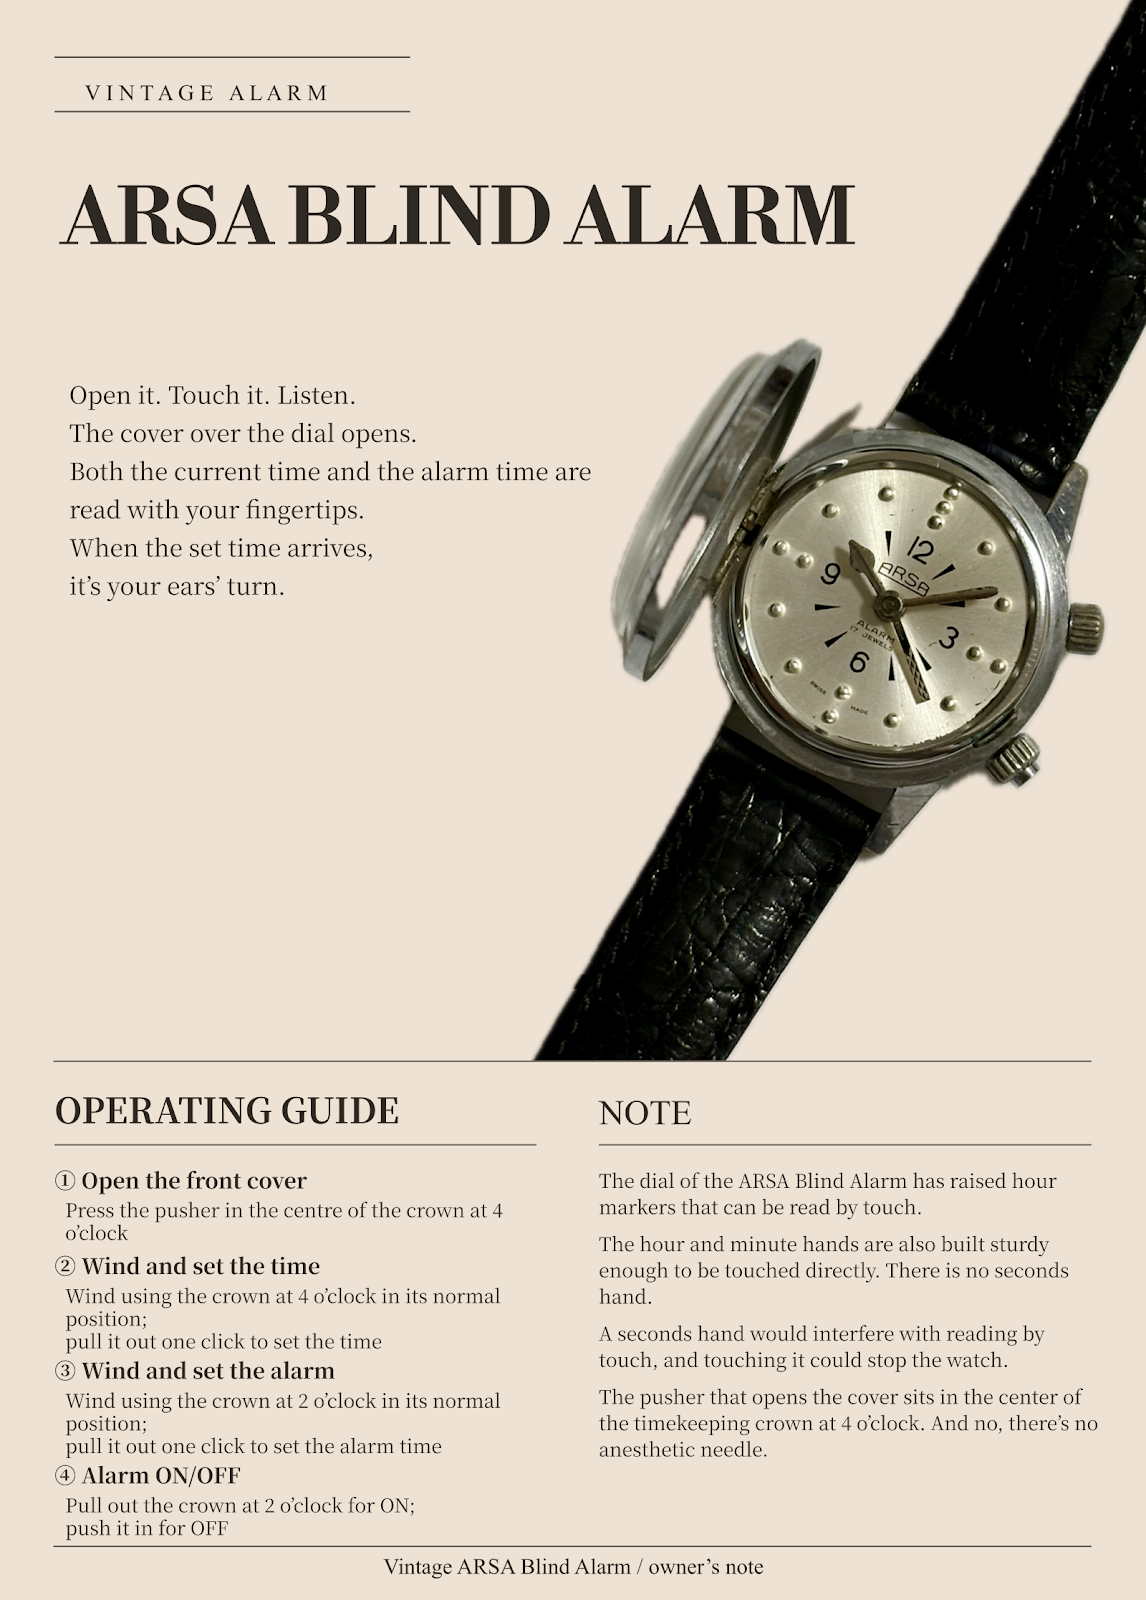
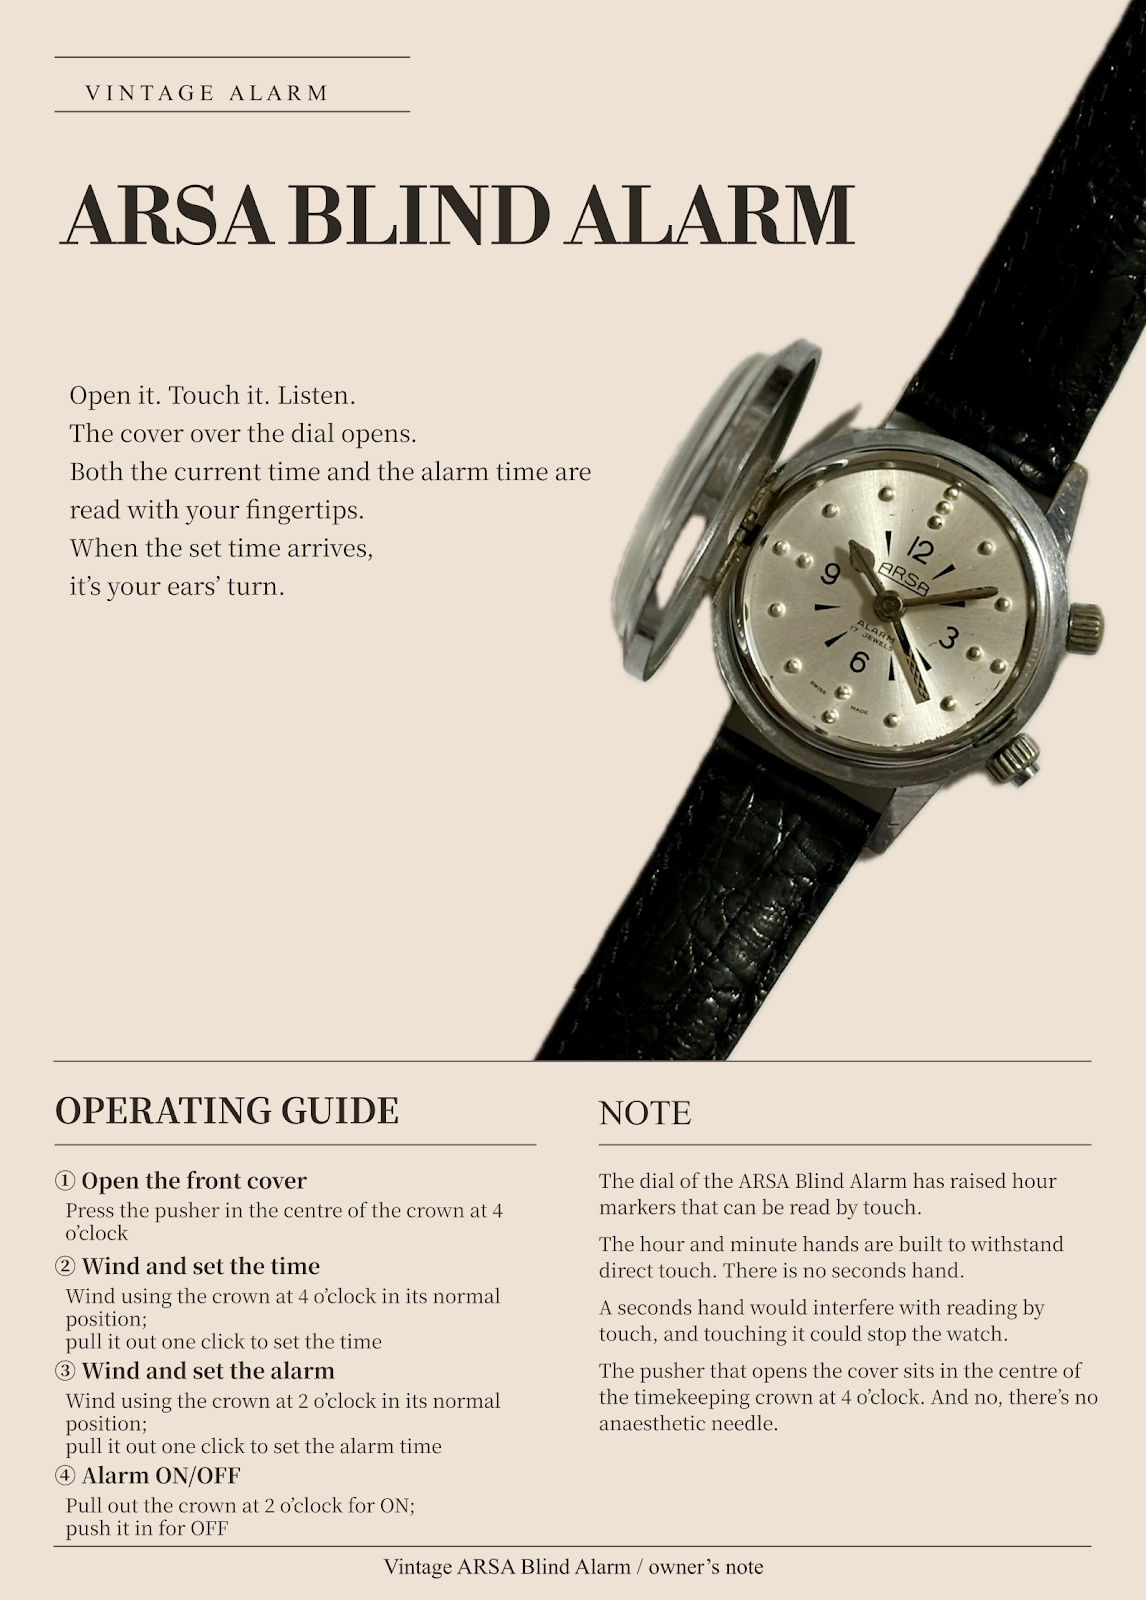
Refresh ARSA English and German owner's note images

Changed region(s): [[0.5192, 0.75, 0.9468, 0.9062]]

diff --git a/CHANGE_DECISIONS.md b/CHANGE_DECISIONS.md
@@ -2202,3 +2202,14 @@
[1 lines of base64/hex data omitted]
 - **関連**：PR #252、PR #258、Pages CMS commit `8799faedc65826e646cc744916dd0b6bae2201d8`、`scripts/check-image-duplicates.mjs`。
 - **日時根拠**：実行ホストのJST時計で `2026-10-19 08:18:42 +09:00` を確認。
+
+### 2026-10-19 09:23 JST — ARSA OWNER'S NOTE英独画像を語感修正版へ更新
+
+- **変更**：ARSA英語版NOTEの `built sturdy enough` を `built to withstand direct touch` へ改め、`centre` / `anaesthetic` の英国綴りへ統一。ドイツ語版NOTE末尾を `Eine Narkosenadel kommt dabei nicht zum Vorschein.` へ自然化したGoogle Slidesから、ユーザーが再書き出した `ARSA_EN.png` / `ARSA_DE.png` をGitHub上の同言語OWNER'S NOTE画像へ差し替え、build gateのSHA-256も新画像へ同期する。
+- **理由**：意味・事実・操作説明を変えず、前回画像に残っていた英語の非母語的表現と表記ゆれ、ドイツ語の機械的な言い回しだけを直すため。ユーザーが修正採用、Slides更新、再書き出し画像のGitHub差替えを順に明示した。
+- **起点→判断**：Aが任意の語感調整候補を指摘 → Uが修正を採用し、再書き出し画像を提示してGitHub差替えを指示 → U採用。
+- **旧状態・棄却**：旧EN画像の `built sturdy enough` / `center` / `anesthetic` と旧DE画像の `Narkosenadel fährt dabei nicht heraus` をSUPERSEDEDとする。Lead、操作ガイド、写真、配置、日本語画像、WATCH本文、`published: false` は変更しない。
+- **影響範囲**：`public/images/arsa-blind-alarm/owners-note-en-20261019.png`、`owners-note-de-20261019.png`、`scripts/check-build-output.mjs`、本ログのみ。
+- **検証状態**：両画像を原寸で目視し、文字欠け・衝突なしを確認。ともに1146×1600。受領原本とGitHub保存後のSHA-256完全一致、Astro build、画像重複gate、生成物の画像hash / 公開状態gateを確認。PR CIはpush後に別判定する。
[1 lines of base64/hex data omitted]
+- **日時根拠**：実行ホストのJST時計で `2026-10-19 09:22:58 +09:00` を確認し、分単位表記を09:23 JSTへ丸めた。
